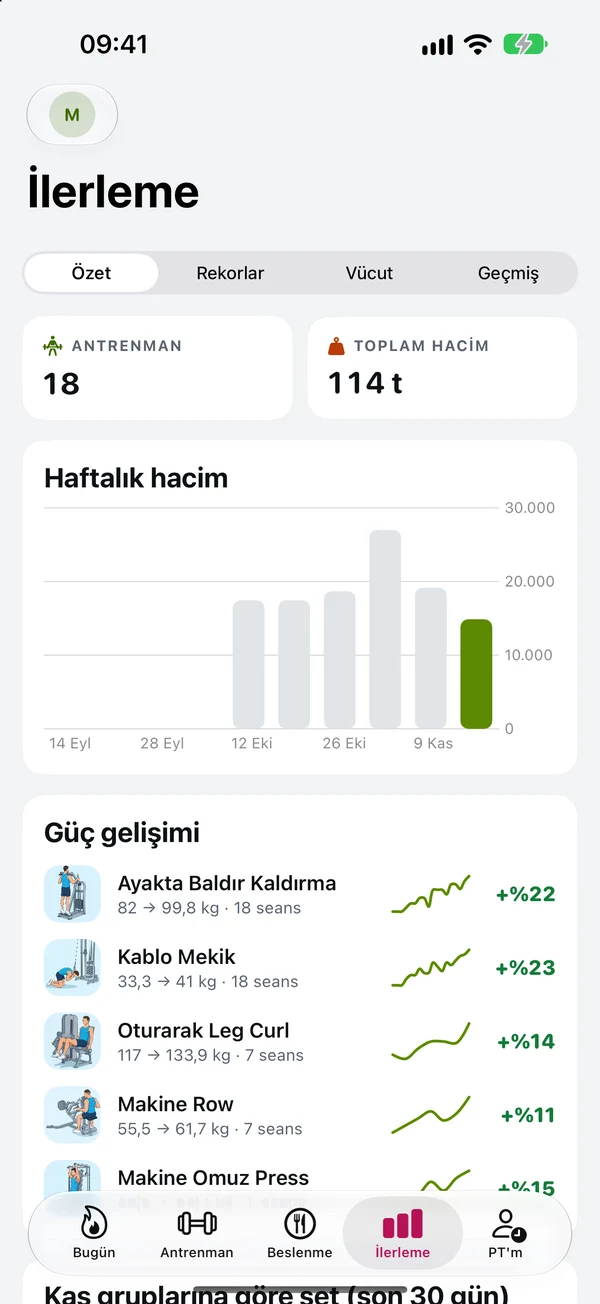
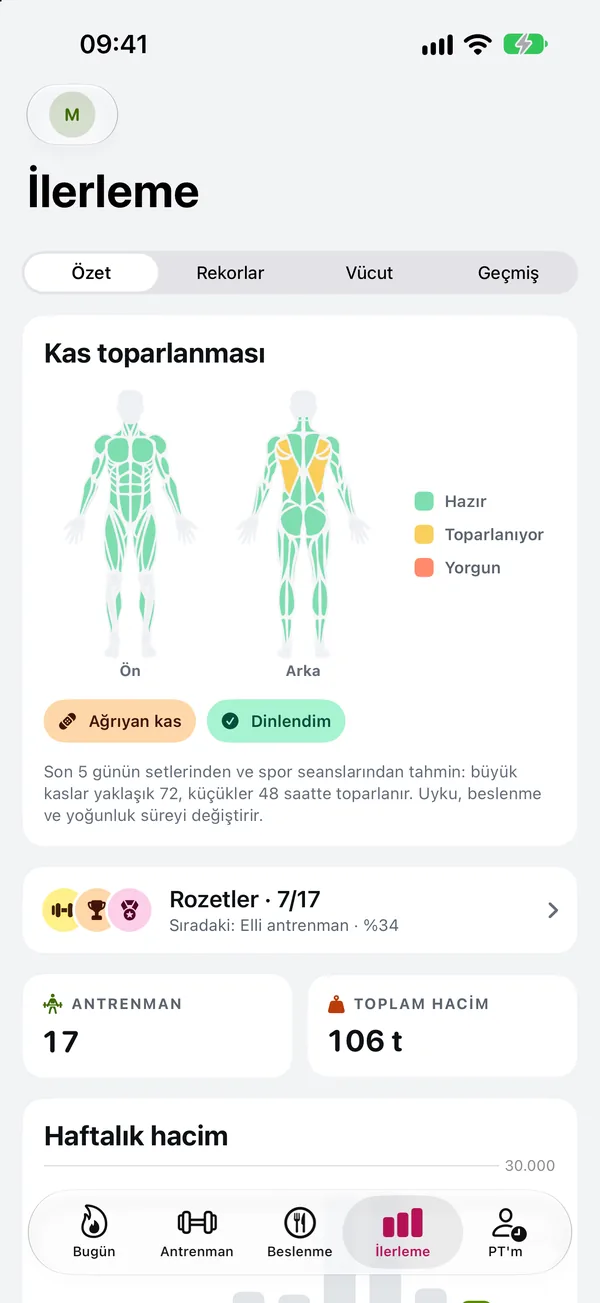
FitDefter 1.2: kas rehberi, kas hacmi, Apple Watch; yeni ekranlar; gizlilik CSV ve check-in

diff --git a/fitdefter/index.html b/fitdefter/index.html
@@ -15,15 +15,15 @@
 <div class="sar">
 <span class="cip">Antrenman defteri · PT takibi</span>
 <h1>Geçen seferki ağırlığını <em>hatırlar.</em></h1>
-<p class="alt">Setlerini kaydet; FitDefter bugün ne kadar artıracağını önersin. Vücut analizi, beslenme günlüğü, sana özel program ve takviye planı aynı yerde. Kişisel antrenörsen öğrencilerin, derslerin ve paketlerin de.</p>
+<p class="alt">Setlerini kaydet; FitDefter bugün ne kadar artıracağını önersin. Her kas için en verimli hareketleri bilimsel puanıyla gösterir, haftalık kas hacmini sayar. Vücut analizi, beslenme günlüğü, sana özel program ve takviye planı aynı yerde. Kişisel antrenörsen öğrencilerin, derslerin ve paketlerin de.</p>
 <div class="dugmeler"><a class="dugme ana" href="https://apps.apple.com/tr/app/id6837271125?ct=site-ust">App Store'dan indir <small>ücretsiz</small></a><a class="dugme ikinci" href="#ozellikler">Neler var</a></div>
-<div class="telefonlar"><img class="tel yan" src="/fitdefter/ekran/canli.webp?v=4" alt="Canlı antrenman: set tablosu ve önceki değerler" loading="lazy"><img class="tel orta" src="/fitdefter/ekran/bugun.webp?v=4" alt="FitDefter Bugün ekranı: bugünkü antrenman ve geçen seferden kartı"><img class="tel yan" src="/fitdefter/ekran/analiz.webp?v=4" alt="Vücut analizi: yağ oranı ve göstergeler" loading="lazy"></div>
+<div class="telefonlar"><img class="tel yan" src="/fitdefter/ekran/rehber.webp?v=5" alt="Kas rehberi: anatomik harita ve göğüs için puanlı hareketler" loading="lazy"><img class="tel orta" src="/fitdefter/ekran/bugun.webp?v=5" alt="FitDefter Bugün ekranı: bugünkü antrenman ve geçen seferden kartı"><img class="tel yan" src="/fitdefter/ekran/hacim.webp?v=5" alt="Haftalık kas hacmi: kas başına set ve denge" loading="lazy"></div>
 </div>
 </header>
 
 <div class="sayilar"><div class="sar">
 <div><b>460+</b><span>çizimli hareket</span></div>
-<div><b>27</b><span>spor: yoga, pilates, yüzme, koşu…</span></div>
+<div><b>16</b><span>kas için puanlı hareket rehberi</span></div>
 <div><b>5 dil</b><span>TR · EN · DE · RU · FR</span></div>
 <div><b>0</b><span>hesap, reklam, takip</span></div>
 </div></div>
@@ -34,21 +34,37 @@
 <div class="bento">
 <div class="k g4 volt belir"><span class="sim"><svg width="22" height="22" viewBox="0 0 24 24" fill="none" stroke="currentColor" stroke-width="2" stroke-linecap="round" stroke-linejoin="round"><path d="M3 17l6-6 4 4 8-8"/><path d="M15 7h6v6"/></svg></span><h3>Ağırlığını hatırlar, artışı önerir</h3><p>Programdaki gün gelince geçen seferki ağırlık ve tekrarlar setlere önceden yazılır. Bütün setlerde aralığın tepesine çıktıysan ağırlığı artırmanı, çıkmadıysan bir tekrar fazlasını önerir; iki seans üst üste zorlandıysan yükü biraz azaltıp formu oturtmanı söyler.</p>
 <div class="oneri"><div>Squat (Halter) · 4 × 8 tamam<i>+2,5 kg</i></div><div>Romen Deadlift · 3 × 10<i>+1 tekrar</i></div><div>Leg Press · iki seans zorlandın<i>−%10</i></div></div></div>
-<div class="k belir"><span class="sim"><svg width="22" height="22" viewBox="0 0 24 24" fill="none" stroke="currentColor" stroke-width="2" stroke-linecap="round"><circle cx="12" cy="13" r="8"/><path d="M12 9v4l2.5 2M9 2h6"/></svg></span><h3>Canlı antrenman</h3><p>Set tablosu, önceki değerler, ısınma ve düşüş setleri, dinlenme sayacı ve bildirimi, plaka hesaplayıcı. Yeni rekor anında haber verilir.</p></div>
+<div class="k belir"><span class="sim"><svg width="22" height="22" viewBox="0 0 24 24" fill="none" stroke="currentColor" stroke-width="2" stroke-linecap="round"><circle cx="12" cy="13" r="8"/><path d="M12 9v4l2.5 2M9 2h6"/></svg></span><h3>Canlı antrenman</h3><p>Set tablosu, önceki değerler, otomatik ısınma setleri, süper set, hareketi değiştir, dinlenme sayacı (kilit ekranı ve Dynamic Island'da), plaka hesaplayıcı ve sesli koç. Yeni rekor anında haber verilir.</p></div>
 <div class="k g3 belir"><span class="sim"><svg width="22" height="22" viewBox="0 0 24 24" fill="none" stroke="currentColor" stroke-width="2" stroke-linecap="round"><circle cx="12" cy="5" r="2.5"/><path d="M12 8v6M8 22l4-8 4 8M6 11h12"/></svg></span><h3>Vücut analizi</h3><p>Boy, kilo ve bel-boyun-kalça ölçülerinden yağ oranı, yağsız kütle, beden kitle indeksi, FFMI, bazal metabolizma ve günlük harcama. Hedefini seç: günlük kalori, protein-karbonhidrat-yağ, su ve hedef kiloya tahmini süre çıksın.</p>
-<div class="gorsel"><img src="/fitdefter/ekran/analiz.webp?v=4" alt="Vücut analizi ekranı" loading="lazy"><img src="/fitdefter/ekran/hedef.webp?v=4" alt="Hedef kalori ve makro halkaları" loading="lazy"></div></div>
+<div class="gorsel"><img src="/fitdefter/ekran/analiz.webp?v=5" alt="Vücut analizi ekranı" loading="lazy"><img src="/fitdefter/ekran/hedef.webp?v=4" alt="Hedef kalori ve makro halkaları" loading="lazy"></div></div>
 <div class="k g3 belir"><span class="sim"><svg width="22" height="22" viewBox="0 0 24 24" fill="none" stroke="currentColor" stroke-width="2" stroke-linecap="round"><path d="M9 3h6v4l3 3v10a1 1 0 0 1-1 1H7a1 1 0 0 1-1-1V10l3-3z"/><path d="M6 13h12"/></svg></span><h3>Takviye planı</h3><p>25 takviye güncel kaynaklarla: whey, kreatin, kafein, beta-alanin, omega-3, D vitamini ve fazlası. Ne işe yaradığı, kanıt düzeyi (AIS grubu), kilona göre doz, ne zaman alınacağı (sabah, antrenman öncesi, sırası, sonrası, yatmadan) ve uyarılar. Antrenman günü ve dinlenme günü ayrı; aldıklarını işaretle.</p>
-<div class="gorsel"><img src="/fitdefter/ekran/takviye.webp?v=4" alt="Takviye planı: sabah, antrenman öncesi, sırası ve sonrası" loading="lazy"><img src="/fitdefter/ekran/canli.webp?v=4" alt="Antrenman sırasında takviye hatırlatması" loading="lazy"></div></div>
+<div class="gorsel"><img src="/fitdefter/ekran/takviye.webp?v=4" alt="Takviye planı: sabah, antrenman öncesi, sırası ve sonrası" loading="lazy"><img src="/fitdefter/ekran/canli.webp?v=5" alt="Antrenman sırasında takviye hatırlatması" loading="lazy"></div></div>
 <div class="k g3 belir"><span class="sim"><svg width="22" height="22" viewBox="0 0 24 24" fill="none" stroke="currentColor" stroke-width="2" stroke-linecap="round" stroke-linejoin="round"><path d="M7 3v8a2 2 0 0 0 2 2v8M5 3v5M9 3v5M17 21V3c-2 1-3 3.5-3 7 0 2 1 3 3 3"/></svg></span><h3>Beslenme ve kalori</h3><p>Öğünlerini 350'den fazla besinle kaydet: kahvaltı, öğle, akşam, ara öğün, antrenman öncesi ve sonrası. Değerler USDA FoodData Central'dan; simit, menemen, mercimek çorbası gibi Türk yemekleri tariflerinden hesaplandı. Kalan kalori, protein-karbonhidrat-yağ, lif ve su tek ekranda. Hedefine göre 8 örnek beslenme planı tek dokunuşla güne eklenir. Yürüyüş, koşu, bisiklet, yüzme gibi 160'tan fazla aktivitenin ve antrenmanlarının kalorisi MET değerleriyle (2024 Compendium) tahmin edilir.</p>
-<div class="gorsel"><img src="/fitdefter/ekran/beslenme.webp?v=4" alt="Beslenme: kalan kalori, makrolar, su ve yakılan kalori" loading="lazy"><img src="/fitdefter/ekran/planlar.webp?v=4" alt="Örnek beslenme planları" loading="lazy"></div></div>
+<div class="gorsel"><img src="/fitdefter/ekran/beslenme.webp?v=5" alt="Beslenme: kalan kalori, makrolar, su ve yakılan kalori" loading="lazy"><img src="/fitdefter/ekran/planlar.webp?v=4" alt="Örnek beslenme planları" loading="lazy"></div></div>
 <div class="k belir"><span class="sim"><svg width="22" height="22" viewBox="0 0 24 24" fill="none" stroke="currentColor" stroke-width="2" stroke-linecap="round"><rect x="4" y="3" width="16" height="18" rx="2"/><path d="M8 8h8M8 12h8M8 16h5"/></svg></span><h3>Sana özel program</h3><p>Hedef, deneyim, haftada kaç gün ve nerede (salon, evde dambıl, ekipmansız): program tek dokunuşla hazırlanır. Hacim kas başına sayılır, seviyene göre dengelenir; her harekette RIR hedefi var. Ya da 20 hazır programdan birini seç: Kubilay Kenan Hoca'nın Hypertrophy Max programı, üst/alt, PPL, powerbuilding, kalça odaklı, evde, 50 yaş üstü programlar ve yoga, pilates, yüzme, koşu planları.</p></div>
-<div class="k belir"><span class="sim"><svg width="22" height="22" viewBox="0 0 24 24" fill="none" stroke="currentColor" stroke-width="2" stroke-linecap="round"><path d="M6.5 6.5v11M17.5 6.5v11M3 9.5v5M21 9.5v5M6.5 12h11"/></svg></span><h3>Hareket kütüphanesi</h3><p>460'tan fazla hareket: çizimli anlatım, adım adım yapılış, form ipuçları, çalışan kaslar ve form videoları.</p></div>
-<div class="k belir"><span class="sim"><svg width="22" height="22" viewBox="0 0 24 24" fill="none" stroke="currentColor" stroke-width="2" stroke-linecap="round"><path d="M4 20V10M10 20V4M16 20v-7M22 20H2"/></svg></span><h3>İlerleme</h3><p>Haftalık hacim, kas gruplarına göre set dağılımı, rekorlar, güç gelişimi, ölçüm grafikleri ve ilerleme fotoğrafları.</p></div>
+<div class="k belir"><span class="sim"><svg width="22" height="22" viewBox="0 0 24 24" fill="none" stroke="currentColor" stroke-width="2" stroke-linecap="round"><path d="M6.5 6.5v11M17.5 6.5v11M3 9.5v5M21 9.5v5M6.5 12h11"/></svg></span><h3>Hareket kütüphanesi</h3><p>460'tan fazla hareket: çizimli anlatım, adım adım yapılış, form ipuçları, anatomik haritada çalışan kaslar ve form videoları.</p></div>
+<div class="k belir"><span class="sim"><svg width="22" height="22" viewBox="0 0 24 24" fill="none" stroke="currentColor" stroke-width="2" stroke-linecap="round"><path d="M4 20V10M10 20V4M16 20v-7M22 20H2"/></svg></span><h3>İlerleme</h3><p>Kas toparlanma haritası, haftalık kas hacmi, rekorlar, güç profili, ölçüm grafikleri, aylık takvim ve ilerleme fotoğraflarını yan yana karşılaştırma.</p></div>
 </div>
 </div></section>
 
 <section id="yeni" style="padding-top:20px"><div class="sar">
-<div class="bas belir"><span class="cip">Yeni · 1.1 güncellemesi</span><h2 style="margin-top:14px">Salonun dışı da <em>deftere girer.</em></h2><p>Yoga, yüzme ya da koşu; antrenmanını önce gör, sonra başla. Apple Sağlık, yedek, hatırlatıcılar ve widget.</p></div>
+<div class="bas belir"><span class="cip">Yeni · 1.2 güncellemesi</span><h2 style="margin-top:14px">Hangi hareket, <em>neden o hareket.</em></h2><p>Her kas için en verimli hareketler, haftalık kas hacmi, Apple Watch ve daha akıllı bir sonraki seans.</p></div>
+<div class="bento">
+<div class="k g4 volt belir"><span class="sim"><svg width="22" height="22" viewBox="0 0 24 24" fill="none" stroke="currentColor" stroke-width="2" stroke-linecap="round" stroke-linejoin="round"><circle cx="12" cy="5" r="2.5"/><path d="M12 8v6M8 22l4-8 4 8M6 11h12"/></svg></span><h3>Kas rehberi</h3><p>Anatomik haritada bir kasa dokun: o kası çalıştıran hareketler S'den C'ye sıralanır. Puan; stabilite, kasın uzamış konumda yüklenmesi, hedef kas aktivasyonu, öğrenme kolaylığı ve yorgunluk maliyetinden hesaplanır, kaynakları uygulamada yazılı. "Benim için" sıralaması ekipmanına, geçmişine ve ilerlemene göre değişir; beğendiğin hareketi tek dokunuşla programına ekle.</p>
+<div class="oneri"><div>Pec Deck · göğüs<i>S · 9,4</i></div><div>Oturarak Leg Curl · arka bacak<i>S · 10,0</i></div><div>Romen Deadlift · arka bacak<i>S · 8,6</i></div></div>
+<div class="gorsel"><img src="/fitdefter/ekran/rehber.webp?v=5" alt="Kas rehberi ekranı" loading="lazy"><img src="/fitdefter/ekran/hareket.webp?v=5" alt="Hareket detayı: anatomik haritada çalışan kaslar" loading="lazy"></div></div>
+<div class="k g2 belir"><span class="sim"><svg width="22" height="22" viewBox="0 0 24 24" fill="none" stroke="currentColor" stroke-width="2" stroke-linecap="round"><path d="M4 20V10M10 20V4M16 20v-7M22 20H2"/></svg></span><h3>Haftalık kas hacmi</h3><p>Kas başına haftalık set sayısı, 10–20 setlik gelişim aralığı, itme/çekme ve ön bacak/arka zincir dengesi. Az çalışan kasa uygun hareket önerilir.</p>
+<div class="gorsel"><img src="/fitdefter/ekran/hacim.webp?v=5" alt="Haftalık kas hacmi raporu" loading="lazy" style="width:78%"></div></div>
+<div class="k g3 belir"><span class="sim"><svg width="22" height="22" viewBox="0 0 24 24" fill="none" stroke="currentColor" stroke-width="2" stroke-linecap="round" stroke-linejoin="round"><path d="M3 17l6-6 4 4 8-8"/><path d="M15 7h6v6"/></svg></span><h3>Daha akıllı sonraki seans</h3><p>Seti bitirince "kaç tekrar daha yapabilirdin?" (RIR) sorulur; çok kolay geldiyse ağırlık önerisi artar. Antrenman sonunda kasların için pump, ağrı ve iş yükünü işaretle: bir sonraki seansın set sayısı buna göre bir set artar ya da azalır.</p></div>
+<div class="k g3 belir"><span class="sim"><svg width="22" height="22" viewBox="0 0 24 24" fill="none" stroke="currentColor" stroke-width="2" stroke-linecap="round" stroke-linejoin="round"><rect x="6" y="5" width="12" height="14" rx="3"/><path d="M9 5V2h6v3M9 19v3h6v-3"/></svg></span><h3>Apple Watch</h3><p>Bugünkü plan bileğinde: kiloyu ve tekrarı Digital Crown'la gir, dinlenme bitince titreşimle haber al, nabız ve kalori kaydedilsin. Sonuçlar telefona geçer; saat yüzünde komplikasyon.</p></div>
+<div class="k g2 belir"><span class="sim"><svg width="22" height="22" viewBox="0 0 24 24" fill="none" stroke="currentColor" stroke-width="2" stroke-linecap="round"><path d="M6 20V10M12 20V4M18 20v-6"/></svg></span><h3>Güç profili</h3><p>Bench press, squat, deadlift ve omuz press'te vücut ağırlığına göre seviyen: başlangıçtan elite.</p></div>
+<div class="k g2 belir"><span class="sim"><svg width="22" height="22" viewBox="0 0 24 24" fill="none" stroke="currentColor" stroke-width="2" stroke-linecap="round" stroke-linejoin="round"><path d="M20.8 4.6a5.5 5.5 0 0 0-7.8 0L12 5.7l-1-1.1a5.5 5.5 0 0 0-7.8 7.8L12 21l8.8-8.6a5.5 5.5 0 0 0 0-7.8z"/></svg></span><h3>Kas toparlanması</h3><p>Hangi kas hazır, hangisi yorgun; koşu, futbol, yüzme gibi seanslar da sayılır. Ağrıyan kası elle işaretleyebilirsin.</p></div>
+<div class="k g2 belir"><span class="sim"><svg width="22" height="22" viewBox="0 0 24 24" fill="none" stroke="currentColor" stroke-width="2" stroke-linecap="round" stroke-linejoin="round"><path d="M4 7V4h16v3M9 20h6M12 4v16"/></svg></span><h3>Ve daha fazlası</h3><p>Sağ/sol ayrı set, barkodla besin ekleme, su widget'ı, Siri kestirmeleri, isteğe bağlı iCloud eşitlemesi ve yenilenen Ayarlar.</p></div>
+</div>
+</div></section>
+
+<section id="yeni11" style="padding-top:20px"><div class="sar">
+<div class="bas belir"><span class="cip">1.1 ile gelenler</span><h2 style="margin-top:14px">Salonun dışı da <em>deftere girer.</em></h2><p>Yoga, yüzme ya da koşu; antrenmanını önce gör, sonra başla. Apple Sağlık, yedek, hatırlatıcılar ve widget.</p></div>
 <div class="bento">
 <div class="k g4 volt belir"><span class="sim"><svg width="22" height="22" viewBox="0 0 24 24" fill="none" stroke="currentColor" stroke-width="2" stroke-linecap="round" stroke-linejoin="round"><path d="M2 12s3.5-7 10-7 10 7 10 7-3.5 7-10 7S2 12 2 12z"/><circle cx="12" cy="12" r="3"/></svg></span><h3>Önce gör, sonra başla</h3><p>Programa dokununca antrenman hemen başlamaz: günün hareketlerini, set-tekrarlarını ve tahmini süresini gör, istersen başka bir günü seç, hazır olunca başlat.</p></div>
 <div class="k belir"><span class="sim"><svg width="22" height="22" viewBox="0 0 24 24" fill="none" stroke="currentColor" stroke-width="2" stroke-linecap="round" stroke-linejoin="round"><rect x="3" y="4" width="18" height="17" rx="2"/><path d="M3 9h18M8 2v4M16 2v4"/></svg></span><h3>Takvimden gün</h3><p>Üstteki takvim şeridinde bir güne dokun: o gün ne yaptığın ya da ne planlı olduğu açılır.</p></div>
@@ -67,28 +83,32 @@
 <li><b>Ders ve paket takibi</b><span>Tekrarlayan ders saatleri; paketlerde kalan, planlı, kullanılan ve yanan ders; ödeme ve alacak defteri.</span></li>
 <li><b>Her öğrenciye ayrı dosya</b><span>Ölçüm, vücut analizi, program ve takviye planı. Dersten önce geçen dersteki ağırlıkları gör.</span></li>
 <li><b>Şablondan program ata</b><span>Programını bir kez kur, öğrenciye kopyasını ver; raporu ve takviye planını WhatsApp'tan paylaş.</span></li>
+<li><b>Haftalık check-in</b><span>Öğrencinin uyku, beslenme, enerji, stres ve kilosu; soruları tek dokunuşla WhatsApp'tan gönder, düşüşü erkenden gör.</span></li>
+<li><b>Rapor ve dışa aktarma</b><span>Aylık PDF rapor, program dosyası paylaşımı, ödeme hatırlatması, Apple Takvim'e ders ve antrenman geçmişini CSV (Excel) olarak dışa aktarma.</span></li>
 <li><b>Kendi antrenmanın ayrı</b><span>"Ben" sekmesinde öğrencilerinden bağımsız program, ilerleme ve takviye.</span></li>
 </ul>
 </div>
-<div class="pt-tel belir"><img src="/fitdefter/ekran/pt-bugun.webp?v=4" alt="PT Bugün: tahsilat, dersler ve alacak" loading="lazy"><img src="/fitdefter/ekran/pt-ogrenci.webp?v=4" alt="Öğrenci detayı: paket ve geçen dersin ağırlıkları" loading="lazy"></div>
+<div class="pt-tel belir"><img src="/fitdefter/ekran/pt-bugun.webp?v=5" alt="PT Bugün: tahsilat, dersler ve alacak" loading="lazy"><img src="/fitdefter/ekran/pt-ogrenci.webp?v=5" alt="Öğrenci detayı: paket ve geçen dersin ağırlıkları" loading="lazy"></div>
 </div></section>
 
 <section style="padding-top:20px"><div class="sar">
 <div class="bas belir"><h2>Ekrandan</h2><p>Açık ve koyu görünüm; Türkçe, İngilizce, Almanca, Rusça ve Fransızca. Aşağıdakiler açık görünümde.</p></div>
 <div class="ekran belir">
-<figure><img src="/fitdefter/ekran/bugun.webp?v=4" alt="Bugün ekranı" loading="lazy"><figcaption>Bugün</figcaption></figure>
-<figure><img src="/fitdefter/ekran/canli.webp?v=4" alt="Canlı antrenman" loading="lazy"><figcaption>Canlı antrenman</figcaption></figure>
-<figure><img src="/fitdefter/ekran/analiz.webp?v=4" alt="Vücut analizi" loading="lazy"><figcaption>Vücut analizi</figcaption></figure>
+<figure><img src="/fitdefter/ekran/bugun.webp?v=5" alt="Bugün ekranı" loading="lazy"><figcaption>Bugün</figcaption></figure>
+<figure><img src="/fitdefter/ekran/rehber.webp?v=5" alt="Kas rehberi" loading="lazy"><figcaption>Kas rehberi</figcaption></figure>
+<figure><img src="/fitdefter/ekran/canli.webp?v=5" alt="Canlı antrenman" loading="lazy"><figcaption>Canlı antrenman</figcaption></figure>
+<figure><img src="/fitdefter/ekran/hacim.webp?v=5" alt="Haftalık kas hacmi" loading="lazy"><figcaption>Kas hacmi</figcaption></figure>
+<figure><img src="/fitdefter/ekran/analiz.webp?v=5" alt="Vücut analizi" loading="lazy"><figcaption>Vücut analizi</figcaption></figure>
 <figure><img src="/fitdefter/ekran/hedef.webp?v=4" alt="Hedef kalori ve makrolar" loading="lazy"><figcaption>Kalori ve makro</figcaption></figure>
-<figure><img src="/fitdefter/ekran/beslenme.webp?v=4" alt="Beslenme günlüğü" loading="lazy"><figcaption>Beslenme</figcaption></figure>
+<figure><img src="/fitdefter/ekran/beslenme.webp?v=5" alt="Beslenme günlüğü" loading="lazy"><figcaption>Beslenme</figcaption></figure>
 <figure><img src="/fitdefter/ekran/besinara.webp?v=4" alt="Besin arama" loading="lazy"><figcaption>Besin ekle</figcaption></figure>
 <figure><img src="/fitdefter/ekran/planlar.webp?v=4" alt="Örnek beslenme planları" loading="lazy"><figcaption>Örnek planlar</figcaption></figure>
 <figure><img src="/fitdefter/ekran/takviye.webp?v=4" alt="Takviye planı" loading="lazy"><figcaption>Takviye planı</figcaption></figure>
-<figure><img src="/fitdefter/ekran/sihirbaz.webp?v=4" alt="Program oluştur" loading="lazy"><figcaption>Program oluştur</figcaption></figure>
-<figure><img src="/fitdefter/ekran/ilerleme.webp?v=4" alt="İlerleme ve güç gelişimi" loading="lazy"><figcaption>İlerleme</figcaption></figure>
-<figure><img src="/fitdefter/ekran/hareket.webp?v=4" alt="Hareket detayı" loading="lazy"><figcaption>Hareket detayı</figcaption></figure>
-<figure><img src="/fitdefter/ekran/pt-bugun.webp?v=4" alt="PT Bugün" loading="lazy"><figcaption>PT: Bugün</figcaption></figure>
-<figure><img src="/fitdefter/ekran/pt-ogrenci.webp?v=4" alt="PT öğrenci detayı" loading="lazy"><figcaption>PT: öğrenci</figcaption></figure>
+<figure><img src="/fitdefter/ekran/sihirbaz.webp?v=5" alt="Program oluştur" loading="lazy"><figcaption>Program oluştur</figcaption></figure>
+<figure><img src="/fitdefter/ekran/ilerleme.webp?v=5" alt="İlerleme ve güç gelişimi" loading="lazy"><figcaption>İlerleme</figcaption></figure>
+<figure><img src="/fitdefter/ekran/hareket.webp?v=5" alt="Hareket detayı" loading="lazy"><figcaption>Hareket detayı</figcaption></figure>
+<figure><img src="/fitdefter/ekran/pt-bugun.webp?v=5" alt="PT Bugün" loading="lazy"><figcaption>PT: Bugün</figcaption></figure>
+<figure><img src="/fitdefter/ekran/pt-ogrenci.webp?v=5" alt="PT öğrenci detayı" loading="lazy"><figcaption>PT: öğrenci</figcaption></figure>
 </div>
 </div></section>
 

diff --git a/fitdefter/gizlilik.html b/fitdefter/gizlilik.html
@@ -12,13 +12,15 @@
 <div class="sar ust"><a class="marka" href="/fitdefter/"><img src="/fitdefter/simge.png" alt=""><span>Fit<b>Defter</b></span></a><nav><a class="gizle" href="/fitdefter/#ozellikler">Özellikler</a><a href="/fitdefter/destek.html">Destek</a><a class="gizle" href="/">kubilaykenan.com</a></nav></div>
 <main class="metin">
 <h1>Gizlilik politikası</h1>
-<p class="yururluk">Yürürlük tarihi: 25.11.2026 (1.2) · FitDefter (iPhone) · Geliştirici: Kubilay Kenan Işıklı</p>
+<p class="yururluk">Yürürlük tarihi: 26.11.2026 (1.2) · FitDefter (iPhone) · Geliştirici: Kubilay Kenan Işıklı</p>
 <p class="kisa"><b>Kısaca:</b> FitDefter hiçbir kişisel veri toplamaz. Antrenmanların, ölçümlerin, vücut analizi bilgilerin, öğün, su ve aktivite kayıtların, takviye planın ve (kişisel antrenörsen) öğrenci kayıtların yalnız telefonunda saklanır. Hesap, sunucu, reklam, analiz ve takip yoktur; geliştirici dahil kimse verine erişemez.</p>
 
 <h2>Verilerin nerede?</h2>
 <p>Uygulamaya girdiğin her şey (antrenmanlar ve setler, programlar, ölçümler, boy-kilo ve vücut analizi girdileri, öğün, su ve aktivite kayıtların, takviye planı ve işaretlerin, ilerleme fotoğrafları) telefonundaki uygulama veritabanında durur. Veriler geliştiriciye ya da bir sunucuya gönderilmez. Uygulamayı silersen bu kayıtlar da silinir.</p>
 <p><b>iCloud eşitleme (isteğe bağlı, kapalı gelir):</b> Ayarlar › iCloud'dan açarsan verin Apple'ın CloudKit hizmetiyle kendi iCloud hesabının özel alanında saklanır ve aynı Apple hesabındaki iPhone ve iPad'lerinde eşitlenir. Bu alan yalnız senindir; geliştirici dahil kimse erişemez. Apple'ın iCloud koşulları geçerlidir. Kapatırsan veri telefonda kalmaya devam eder.</p>
-<p><b>Yedek dosyası:</b> Ayarlar › Yedek'ten "Yedek al" dersen tüm verin tek bir dosyaya (.fitdefter) yazılır ve nereye kaydedeceğini sen seçersin (ör. iCloud Drive ya da Dosyalar). Dosya yalnız seçtiğin yerde durur; FitDefter onu hiçbir sunucuya göndermez. "Yedekten geri yükle" dersen şimdiki verin silinmez, telefonda ayrı bir klasöre taşınır.</p>
+<p><b>Yedek dosyası:</b> Ayarlar › Yedek ve dışa aktar'dan "Yedek al" dersen tüm verin tek bir dosyaya (.fitdefter) yazılır ve nereye kaydedeceğini sen seçersin (ör. iCloud Drive ya da Dosyalar). Dosya yalnız seçtiğin yerde durur; FitDefter onu hiçbir sunucuya göndermez. "Yedekten geri yükle" dersen şimdiki verin silinmez, telefonda ayrı bir klasöre taşınır.</p>
+<p><b>CSV dışa aktarma:</b> Ayarlar › Yedek ve dışa aktar'dan ya da (PT isen) öğrencinin menüsünden antrenman geçmişini .csv dosyası olarak paylaşabilirsin. Dosya yalnız senin seçtiğin uygulamaya ya da kişiye gider; FitDefter kendisi hiçbir yere göndermez.</p>
+<p><b>Haftalık check-in (PT):</b> Öğrencilerin uyku, beslenme, enerji, stres ve kilo puanları yalnız telefonunda (iCloud eşitlemesini açtıysan kendi iCloud hesabında) saklanır. "Soruları WhatsApp'tan gönder" dersen WhatsApp, içinde soruların yazdığı bir mesajla açılır; göndermeyi sen yaparsın.</p>
 <p>iPhone'unun kendi yedeği (iCloud Yedekleme ya da bilgisayara yedek) açıksa iOS, telefondaki uygulama verilerini bu sistem yedeğine katabilir. Bu Apple'ın cihaz yedeğidir ve Apple'ın koşullarına tabidir; FitDefter ayrıca bir yere bir şey göndermez.</p>
 
 <h2>Kişisel antrenörler için: öğrenci bilgileri</h2>
